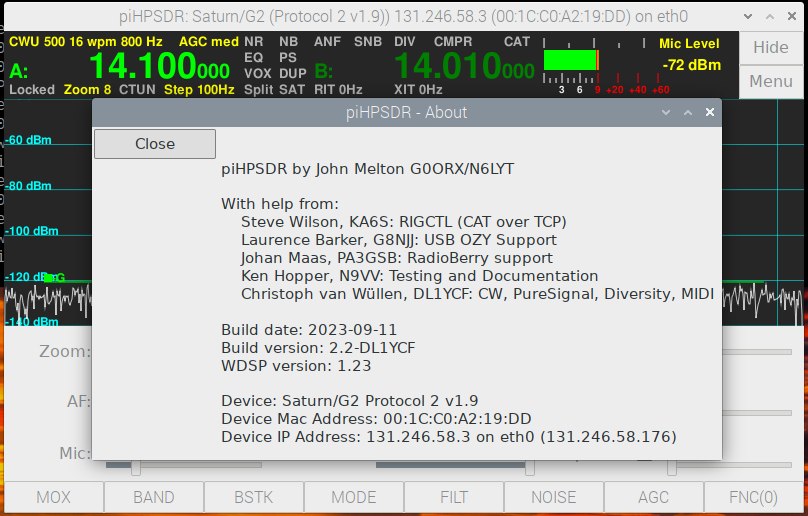
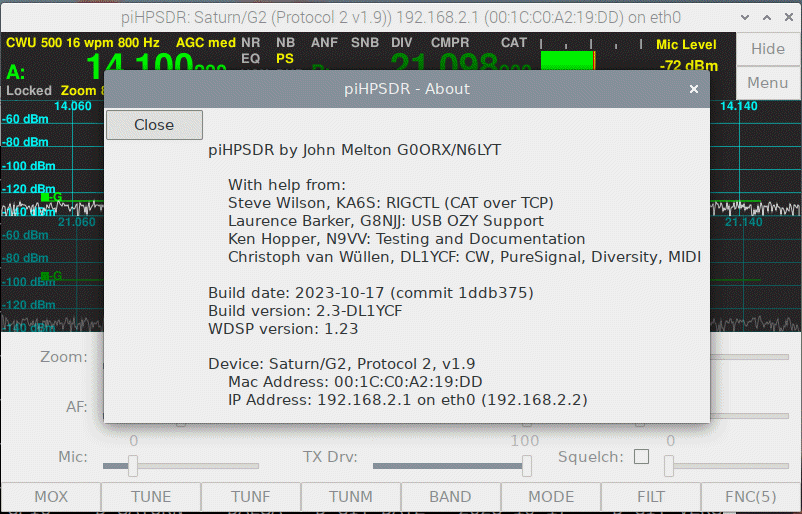
a) force compilation of version.c whenever the executable is linked,    since the version info needs update b) detailed version info (commit) in the About menu c) updated Manual accordingly d) produced new binaries

diff --git a/release/LatexManual/piHPSDR-Manual.tex b/release/LatexManual/piHPSDR-Manual.tex
@@ -103,7 +103,8 @@ to the version of piHPSDR that can be found on my github account \texttt{https:/
 
 Because piHPSDR can be used on many different types of computers, and because operating systems change
 rather quickly over time, I generally do not recommend to do a ,,binary installation'' although such
-a bundle is provided in the repository (for the RapsberryPi only) and the process is decribed in Appendix \ref{sec:installbinary}.
+a bundle is provided in the repository (for the RapsberryPi only) and the process is decribed in Appendix
+ \ref{sec:installbinary}.
  Instead, my personal recommendation is to build piHPSDR
 from the sources, only this procedure guarantees compatibility of the final program with your
 operating system. Shell scripts for a semi-automatic installation have been provided,
@@ -116,7 +117,8 @@ a menu of within the VFO bar. piHPSDR menus and commands are indicated through a
 printed in blue. The author hopes that this improves readability. In some cases, if the name of a command
 or  menu is written on the screen, you may find the same string both typed in red and blue in the
 description, depending on whether the text refers to the command in an abstract sense or to the string as it
-can be found on the screen. This may be confusing upon first reading, but I shall try to follow the coloring convention as laid out here.
+can be found on the screen. This may be confusing upon first reading, but I shall try to follow the coloring
+ convention as laid out here.
 
 %%%%%%%%%%%%%%%%%%%%%%%%%%%%%%%%%%%%%%%%%%%%%%%%%%%%%%%%%%%%%%%%%%%%%%%%%%%%%%%%%%%%%%%%%%%%%%%%%%%%%%%%%%%%
 \chapter{Starting piHPSDR for the first time}
@@ -145,9 +147,11 @@ elsewhere.
 \end{figure}
 
 If the piHPSDR program is started for the first time, it opens a window that looks like Fig. \ref{fig:Planning}.
-Besides stating a version number and when piHPSDR was built, a list of optional features (to be activated
-at compile time) is stated, in this case, GPIO, MIDI, SATURN. These are compile-time options that are
-detailed in Appendix \ref{sec:compiletime}.
+Besides stating a version number and when piHPSDR was built, the list of optional features is
+documented (compile-time options,
+in this case  GPIO, MIDI, SATURN) as well as the audio module used (here: ALSA) for attaching headphones
+or microphones to the host computer running piHPSDR. Information about compile-time options and the 
+audio modules available are given in Appendix \ref{sec:compiletime}.
 
 What is important here that you have to wait. This only applies to the very first time you start piHPSDR.
 On CPUs with a rather simple instruction set (like the ARM processor in the Raspberry Pi, or the Apple
@@ -910,12 +914,22 @@ and an (incomplete) list
 of persons who contributed to the code, and then a statement which version of piHPSDR
 is working here, and when it has been compiled. Here you also find the version number of the WDSP
  library which is the ,,engine''
-running under the hood, and which does nearly all of the signal processing. Finally, there is
-some data on the radio, namely the device type and version numbers, and which protocol is running.
-For diagnostic purposes, you also see the MAC address of the radio, its IP address and the
-IP address of the computer running piHPSDR. The MAC address is of interest since the radio-specific
-preferences are stored in a file whose name is derived from the radio's MAC address.
+running under the hood, and which does nearly all of the signal processing. If you file a bug report,
+this is very important information so you should always include a screen shot of the \bltt{About}
+menu when reporting problems. Of particular importance is the so-called \rett{commit},
+this hexadecimal number (here: 1eeb375) identifies the exact status of the source code files
+when the program has been compiled. If a string \texttt{-dirty} is appended to the version number
+(here: 2.3-DL1YCF, that is, not dirty) this means that one or more files have been locally  modified
+and do not match the commit, and problem reports from a ,,dirty'' version are difficult to handle.
 
+Finally, there is
+some data on the radio, namely the device type and version numbers, and which protocol is running.
+For diagnostic purposes, you also see the MAC address of the radio, its IP address (here: 192.168.2.1)
+and the
+IP address of the computer running piHPSDR (here: 192.168.2.2). The IP and MAC address of
+the radio are also given in the piHPSDR main window title bar, the MAC address is of interest since the radio-specific
+preferences are stored in a file whose name derived from the MAC address of the radio, replacing
+the colons by dashes and appending ,,.props''.
 %%%%%%%%%%%%%%%%%%%%%%%%%%%%%%%%%%%%%%%%%%%%%%%%%%%%%%%%%%%%%%%%%%%%%%%%%%%%%%%%%%%%%%%%%%%%%%%%%%%%%%%%%%%%
 %%%%%%%%%%%%%%%%%%%%%%%%%%%%%%%%%%%%%%%%%%%%%%%%%%%%%%%%%%%%%%%%%%%%%%%%%%%%%%%%%%%%%%%%%%%%%%%%%%%%%%%%%%%%
 \chapter{The Main Menu: Radio-related menus}
@@ -1682,18 +1696,23 @@ it is active or not.
 sound card (or virtual audio cable). The sound card itself is selected in the
 pop-down menu below this check box. One line below, one can select between
 \texttt{STEREO}, \texttt{LEFT} and \texttt{RIGHT}, and select whether the RX
-audio should be sent to both channels or to the left or right one only. This way,
-one can use one sound device for the first receiver and select LEFT,
-and choose another sound device for the second
-receiver and choose RIGHT. If one then mixes these two audio streams (either by
-operating system facilities or in hardware), one gets the first receiver audio
-on the left ear and the second receiver audio on the right ear, which may help
-in split operation in DX chasing.
+audio should be sent to both channels or to the left or right channel only.
 
 In the example shown, checking the Local Audio box would send the RX audio
 samples to the HDMI monitor attached to the RaspPi, but one could equally
 well choose the headphone output or a virtual cable, if one wants to use
 digital modes.
+
+If running two receivers, it depends on the audio output module whether
+it is possible to use the \textit{same} audio output device as local audio output
+for both receivers. With PulseAudio, this is possible which gives you an additional
+bonus:
+Choose the same output device for RX1 and RX2 and activate only
+the left channel for the first and only the right channel for the second receiver.
+With this setup,
+one gets the audio output of the first receiver on the left ear and the audio output of
+the second receiver on the right ear. This can be very convenient for hunting DX in split mode,
+because one then hears the hounds and the fox on different ears.
 
 %%%%%%%%%%%%%%%%%%%%%%%%%%%%%%%%%%%%%%%%%%%%%%%%%%%%%%%%%%%%%%%%%%%%%%%%%%%%%%%%%%%%%%%%%%%%%%%%%%%%%%%%%%%%
 \section{The \texttt{Filter} menu}
@@ -4317,8 +4336,6 @@ The necessary configuration for piHPSDR and WSJTX is not almost evident. The
 piHPSDR settings are shown in Fig. \ref{fig:rx_settings_pa_audio} (\bltt{RX} menu)
 and in Fig. \ref{fig:tx_settings_pa_audio} (\bltt{TX} menu).
 
-
-
 \begin{figure}[ht]
 \center
 \includegraphics[width=12cm]{tx_settings_pa_audio.png}
@@ -4406,8 +4423,10 @@ Simply go (in a terminal window) to the directory where you compile piHPSDR and 
 This ,,trick'' takes care the further compilations use the file \texttt{GNUmakefile} rather than
 \texttt{Makefile},
 and changing the compile time options is accomplished by changing the file \texttt{GNUmakefile} with a text
-editor.
-In the \texttt{Makefile} or \texttt{GNUmakefile} at the beginning, you will find a lot of assignments of the form
+editor. In principle, you could change the \texttt{Makefile} directly, but as soon as you  modify
+one of the files in the repository, the qualifier \texttt{-dirty} will be appended to the version number,
+and this is  not what you want if you have not made a real change.
+In the file \texttt{GNUmakefile} at the beginning, you will find a lot of assignments of the form
 
 \texttt{OPTION=VALUE}
 
@@ -4449,8 +4468,9 @@ with the STEMLAB option, you can open a web browser, start the SDR application o
 and then start piHPSDR. With the STEMLAB option, this can all be done by piHPSDR.
 
 \rett{AUDIO}. (default value is empty)
-On Linux systems (including the Raspberry PI, setting the value to \texttt{ALSA} local audio
-output and local microphone input is done via the standard Linux ALSA sound library, in all other cases
+On Linux systems (including the Raspberry PI), if setting the value to \texttt{ALSA},
+the standard Linux ALSA sound library is used for local audio
+output and local microphone input. In all other cases
 PulseAudio is used. On MacOS, setting the value to \texttt{PULSE} lets piHPSDR use
 PulseAudio for local audio output and local microphone input, in all other cases
 the PortAudio library is used.

diff --git a/src/about_menu.c b/src/about_menu.c
@@ -52,7 +52,7 @@ static gboolean close_cb () {
 
 void about_menu(GtkWidget *parent) {
   char text[2048];
-  char line[256];
+  char line[512];
   dialog = gtk_dialog_new();
   gtk_window_set_transient_for(GTK_WINDOW(dialog), GTK_WINDOW(parent));
   char title[64];
@@ -73,28 +73,23 @@ void about_menu(GtkWidget *parent) {
   g_signal_connect (close_b, "button-press-event", G_CALLBACK(close_cb), NULL);
   gtk_grid_attach(GTK_GRID(grid), close_b, 0, row, 1, 1);
   row++;
-  snprintf(text, 1024 , "piHPSDR by John Melton G0ORX/N6LYT");
-  strlcat(text, "\n\nWith help from:", 1024);
-  strlcat(text, "\n    Steve Wilson, KA6S: RIGCTL (CAT over TCP)", 1024);
-  strlcat(text, "\n    Laurence Barker, G8NJJ: USB OZY Support", 1024);
-  strlcat(text, "\n    Johan Maas, PA3GSB: RadioBerry support", 1024);
-  strlcat(text, "\n    Ken Hopper, N9VV: Testing and Documentation", 1024);
-  strlcat(text, "\n    Christoph van Wüllen, DL1YCF: CW, PureSignal, Diversity, MIDI ", 1024);
-  snprintf(line, 256, "\n\nBuild date: %s", build_date);
-  strlcat(text, line, 1024);
-  snprintf(line, 256, "\nBuild version: %s", build_version);
-  strlcat(text, line, 1024);
-  snprintf(line, 256, "\nWDSP version: %d.%02d", GetWDSPVersion() / 100, GetWDSPVersion() % 100);
-  strlcat(text, line, 1024);
-  snprintf(line, 256, "\n\nDevice: %s Protocol %s v%d.%d", radio->name, radio->protocol == ORIGINAL_PROTOCOL ? "1" : "2",
-          radio->software_version / 10, radio->software_version % 10);
-  strlcat(text, line, 1024);
+  snprintf(text, 1024 , "piHPSDR by John Melton G0ORX/N6LYT\n\n"
+                        "    With help from:\n"
+                        "    Steve Wilson, KA6S: RIGCTL (CAT over TCP)\n"
+                        "    Laurence Barker, G8NJJ: USB OZY Support\n"
+                        //"    Johan Maas, PA3GSB: RadioBerry support\n"
+                        "    Ken Hopper, N9VV: Testing and Documentation\n"
+                        "    Christoph van Wüllen, DL1YCF: CW, PureSignal, Diversity, MIDI \n\n"
+                        "Build date: %s (commit %s)\n"
+                        "Build version: %s\n"
+                        "WDSP version: %d.%02d\n\n",
+           build_date, build_commit, build_version, GetWDSPVersion() / 100, GetWDSPVersion() % 100);
 
   switch (radio->protocol) {
   case ORIGINAL_PROTOCOL:
   case NEW_PROTOCOL:
     if (device == DEVICE_OZY) {
-      snprintf(line, 256, "\nDevice OZY: USB /dev/ozy Protocol %s v%d.%d", radio->protocol == ORIGINAL_PROTOCOL ? "1" : "2",
+      snprintf(line, 512, "Device:  OZY (via USB)  Protocol %s v%d.%d", radio->protocol == ORIGINAL_PROTOCOL ? "1" : "2",
               radio->software_version / 10, radio->software_version % 10);
       strlcat(text, line, 1024);
     } else {
@@ -102,25 +97,38 @@ void about_menu(GtkWidget *parent) {
       char addr[64];
       strlcpy(addr, inet_ntoa(radio->info.network.address.sin_addr), 64);
       strlcpy(interface_addr, inet_ntoa(radio->info.network.interface_address.sin_addr), 64);
-      snprintf(line, 256, "\nDevice Mac Address: %02X:%02X:%02X:%02X:%02X:%02X",
+      snprintf(line, 512, "Device: %s, Protocol %s, v%d.%d\n"
+                          "    Mac Address: %02X:%02X:%02X:%02X:%02X:%02X\n"
+                          "    IP Address: %s on %s (%s)",
+              radio->name, radio->protocol == ORIGINAL_PROTOCOL ? "1" : "2",
+              radio->software_version / 10, radio->software_version % 10,
               radio->info.network.mac_address[0],
               radio->info.network.mac_address[1],
               radio->info.network.mac_address[2],
               radio->info.network.mac_address[3],
               radio->info.network.mac_address[4],
-              radio->info.network.mac_address[5]);
-      strlcat(text, line, 1024);
-      snprintf(line, 256, "\nDevice IP Address: %s on %s (%s)", addr, radio->info.network.interface_name, interface_addr);
+              radio->info.network.mac_address[5],
+              addr,
+              radio->info.network.interface_name,
+              interface_addr);
       strlcat(text, line, 1024);
     }
 
     break;
+#ifdef SOAPYSDR
+    case SOAPYSDR_PROTOCOL:
+      snprintf(line, 512, "Device: %s (via SoapySDR)\n"
+                          "    %s (%s)",
+        radio->name, radio->info.soapy.hardware_key, radio->info.soapy.driver_key);
+      strlcat(text, line, 1024);
+    break;
+#endif
   }
 
   label = gtk_label_new(text);
   gtk_widget_set_name(label, "small_button");
   gtk_widget_set_halign(label, GTK_ALIGN_START);
-  gtk_grid_attach(GTK_GRID(grid), label, 1, row, 4, 1);
+  gtk_grid_attach(GTK_GRID(grid), label, 1, row, 5, 1);
   gtk_container_add(GTK_CONTAINER(content), grid);
   sub_menu = dialog;
   gtk_widget_show_all(dialog);

diff --git a/src/radio.c b/src/radio.c
@@ -1188,39 +1188,26 @@ void start_radio() {
     snprintf(iface, 64, "%s", radio->info.network.interface_name);
     break;
 
+#ifdef SOAPYSDR
   case SOAPYSDR_PROTOCOL:
     strlcpy(p, "SoapySDR", 32);
-    snprintf(version, 32, "v%d.%d.%d)",
+    snprintf(version, 32, "%s v%d.%d.%d",
+             radio->info.soapy.driver_key,
              radio->software_version / 100,
              (radio->software_version % 100) / 10,
              radio->software_version % 10);
     break;
+#endif
   }
 
   //
   // "Starting" message in status text
+  // Note for OZY devices, the name is "Ozy USB"
   //
-  switch (protocol) {
-  case ORIGINAL_PROTOCOL:
-  case NEW_PROTOCOL:
-    if (device == DEVICE_OZY) {
-      snprintf(text, 1024, "%s (%s) on USB /dev/ozy\n", radio->name, p);
-    } else {
-      snprintf(text, 1024, "Starting %s (%s %s)",
-              radio->name,
-              p,
-              version);
-    }
-
-    break;
-
-  case SOAPYSDR_PROTOCOL:
-    snprintf(text, 1024, "Starting %s (%s %s)",
-            radio->name,
-            "SoapySDR",
-            version);
-    break;
-  }
+  snprintf(text, 1024, "Starting %s (%s %s)",
+           radio->name,
+           p,
+           version);
 
   status_text(text);
 
@@ -1231,11 +1218,18 @@ void start_radio() {
   case ORIGINAL_PROTOCOL:
   case NEW_PROTOCOL:
     if (have_saturn_xdma) {
+      // radio has no ip and MAC
       snprintf(text, 1024, "piHPSDR: %s (%s v%d) on %s",
               radio->name,
               p,
               radio->software_version,
               iface);
+    } else if (device == DEVICE_OZY) {
+      // radio has no ip, mac, and name is "Ozy USB"
+      snprintf(text, 1024, "piHPSDR: %s (%s %s)",
+              radio->name,
+              p,
+              version);
     } else {
       snprintf(text, 1024, "piHPSDR: %s (%s %s) %s (%s) on %s",
               radio->name,

diff --git a/src/main.c b/src/main.c
@@ -392,7 +392,8 @@ static void activate_pihpsdr(GtkApplication *app, gpointer data) {
   t_print("add pi label to grid\n");
   gtk_grid_attach(GTK_GRID(topgrid), pi_label, 1, 0, 3, 1);
   t_print("create build label\n");
-  snprintf(text, 256, "Built %s, Version %s\nIncludes %s", build_date, build_version, version);
+  snprintf(text, 256, "Built %s, Version %s\nOptions: %s\nAudio module: %s",
+       build_date, build_version, build_options, build_audio);
   GtkWidget *build_date_label = gtk_label_new(text);
   gtk_widget_set_name(build_date_label, "med_txt");
   gtk_widget_set_halign(build_date_label, GTK_ALIGN_START);

diff --git a/src/version.c b/src/version.c
@@ -20,7 +20,7 @@ char build_date[] = GIT_DATE;
 char build_version[] = GIT_VERSION;
 char build_commit[] = GIT_COMMIT;
 
-char version[] =
+char build_options[] =
 #ifdef GPIO
   "GPIO "
 #endif
@@ -45,15 +45,17 @@ char version[] =
 #ifdef CLIENT_SERVER
   "SERVER "
 #endif
-  "\nAudio module: "
+   "";
+
+char build_audio[] =
 #ifdef ALSA
-  "ALSA.";
+  "ALSA";
 #endif
 #ifdef PULSEAUDIO
-  "PulseAudio.";
+  "PulseAudio";
 #endif
 #ifdef PORTAUDIO
-  "PortAudio.";
+  "PortAudio";
 #endif
 #if !defined(ALSA) && !defined(PORTAUDIO) && !defined(PULSEAUDIO)
   "(unkown)";

diff --git a/src/discovery.c b/src/discovery.c
@@ -365,7 +365,7 @@ void discovery() {
       case ORIGINAL_PROTOCOL:
       case NEW_PROTOCOL:
         if (d->device == DEVICE_OZY) {
-          snprintf(text, sizeof(text), "%s (%s) on USB /dev/ozy", d->name,
+          snprintf(text, sizeof(text), "%s (%s via USB)", d->name,
                    d->protocol == ORIGINAL_PROTOCOL ? "Protocol 1" : "Protocol 2");
         } else if (d->device == NEW_DEVICE_SATURN && strcmp(d->info.network.interface_name, "XDMA") == 0) {
           snprintf(text, sizeof(text), "%s (%s v%d) fpga:%x (%s) on /dev/xdma*", d->name,

diff --git a/src/version.h b/src/version.h
@@ -22,6 +22,7 @@
 extern char build_version[];
 extern char build_date[];
 extern char build_commit[];
-extern char version[];
+extern char build_options[];
+extern char build_audio[];
 
 #endif
